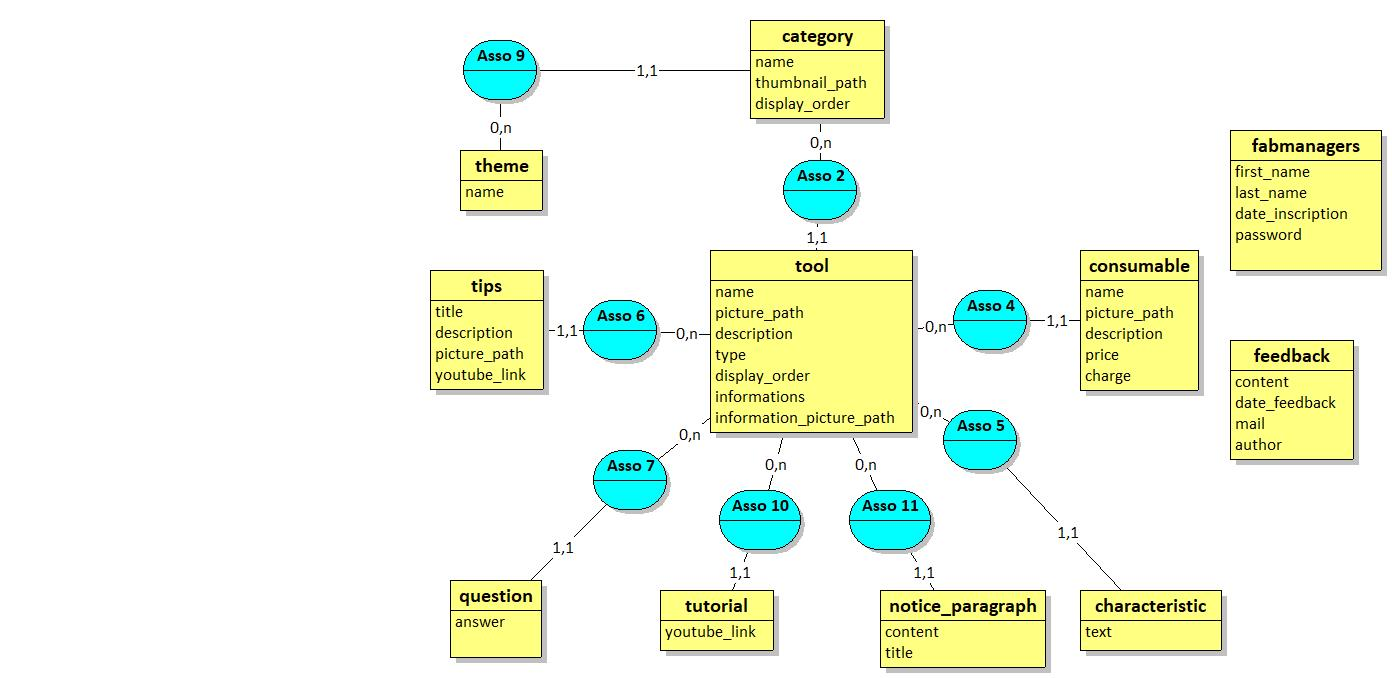
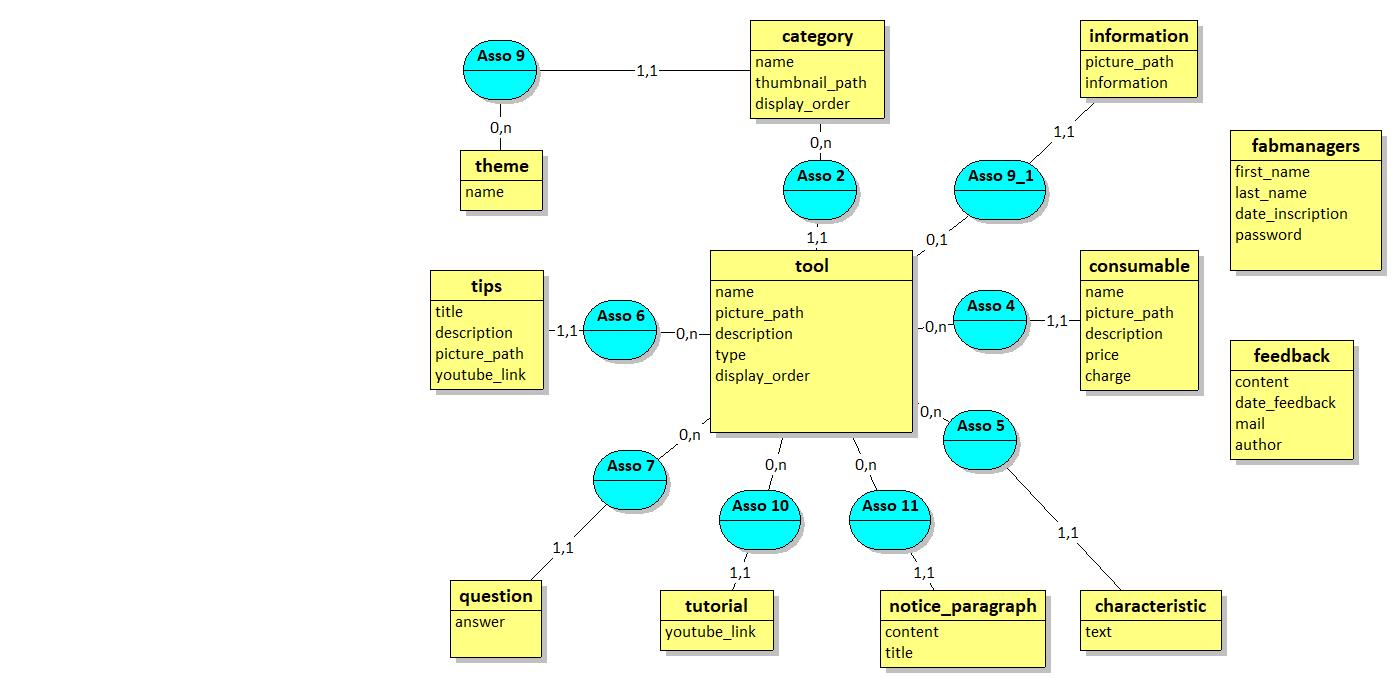
update: information entity + documentation

diff --git a/src/Entity/Tool.php b/src/Entity/Tool.php
@@ -44,16 +44,6 @@ class Tool
     private $displayOrder;
 
     /**
-     * @ORM\Column(type="text", nullable=true)
-     */
-    private $informations;
-
-    /**
-     * @ORM\Column(type="string", length=255, nullable=true)
-     */
-    private $informationPicturePath;
-
-    /**
      * @ORM\ManyToOne(targetEntity="App\Entity\Category", inversedBy="tools")
      * @ORM\JoinColumn(nullable=false)
      */
@@ -88,6 +78,11 @@ class Tool
      * @ORM\OneToMany(targetEntity="App\Entity\Consumable", mappedBy="tool", orphanRemoval=true)
      */
     private $consumable;
+
+    /**
+     * @ORM\OneToOne(targetEntity="App\Entity\Information", mappedBy="tool", cascade={"persist", "remove"})
+     */
+    private $information;
 
     public function __construct()
     {
@@ -161,30 +156,6 @@ class Tool
     public function setDisplayOrder(int $displayOrder): self
     {
         $this->displayOrder = $displayOrder;
-
-        return $this;
-    }
-
-    public function getInformations(): ?string
-    {
-        return $this->informations;
-    }
-
-    public function setInformations(?string $informations): self
-    {
-        $this->informations = $informations;
-
-        return $this;
-    }
-
-    public function getInformationPicturePath(): ?string
-    {
-        return $this->informationPicturePath;
-    }
-
-    public function setInformationPicturePath(?string $informationPicturePath): self
-    {
-        $this->informationPicturePath = $informationPicturePath;
 
         return $this;
     }
@@ -382,6 +353,23 @@ class Tool
             if ($consumable->getTool() === $this) {
                 $consumable->setTool(null);
             }
+        }
+
+        return $this;
+    }
+
+    public function getInformation(): ?Information
+    {
+        return $this->information;
+    }
+
+    public function setInformation(Information $information): self
+    {
+        $this->information = $information;
+
+        // set the owning side of the relation if necessary
+        if ($information->getTool() !== $this) {
+            $information->setTool($this);
         }
 
         return $this;

diff --git a/src/Migrations/Version20200427150207.php b/src/Migrations/Version20200427150207.php
@@ -1,0 +1,38 @@
+<?php
+
+declare(strict_types=1);
+
+namespace DoctrineMigrations;
+
+use Doctrine\DBAL\Schema\Schema;
+use Doctrine\Migrations\AbstractMigration;
+
+/**
+ * Auto-generated Migration: Please modify to your needs!
+ */
+final class Version20200427150207 extends AbstractMigration
+{
+    public function getDescription() : string
+    {
+        return '';
+    }
+
+    public function up(Schema $schema) : void
+    {
+        // this up() migration is auto-generated, please modify it to your needs
+        $this->abortIf($this->connection->getDatabasePlatform()->getName() !== 'mysql', 'Migration can only be executed safely on \'mysql\'.');
+
+        $this->addSql('CREATE TABLE information (id INT AUTO_INCREMENT NOT NULL, tool_id INT NOT NULL, picture_path VARCHAR(255) DEFAULT NULL, content LONGTEXT NOT NULL, UNIQUE INDEX UNIQ_297918838F7B22CC (tool_id), PRIMARY KEY(id)) DEFAULT CHARACTER SET utf8mb4 COLLATE `utf8mb4_unicode_ci` ENGINE = InnoDB');
+        $this->addSql('ALTER TABLE information ADD CONSTRAINT FK_297918838F7B22CC FOREIGN KEY (tool_id) REFERENCES tool (id)');
+        $this->addSql('ALTER TABLE tool DROP informations, DROP information_picture_path');
+    }
+
+    public function down(Schema $schema) : void
+    {
+        // this down() migration is auto-generated, please modify it to your needs
+        $this->abortIf($this->connection->getDatabasePlatform()->getName() !== 'mysql', 'Migration can only be executed safely on \'mysql\'.');
+
+        $this->addSql('DROP TABLE information');
+        $this->addSql('ALTER TABLE tool ADD informations LONGTEXT CHARACTER SET utf8mb4 DEFAULT NULL COLLATE `utf8mb4_unicode_ci`, ADD information_picture_path VARCHAR(255) CHARACTER SET utf8mb4 DEFAULT NULL COLLATE `utf8mb4_unicode_ci`');
+    }
+}

diff --git a/src/Repository/InformationRepository.php b/src/Repository/InformationRepository.php
@@ -1,0 +1,50 @@
+<?php
+
+namespace App\Repository;
+
+use App\Entity\Information;
+use Doctrine\Bundle\DoctrineBundle\Repository\ServiceEntityRepository;
+use Doctrine\Persistence\ManagerRegistry;
+
+/**
+ * @method Information|null find($id, $lockMode = null, $lockVersion = null)
+ * @method Information|null findOneBy(array $criteria, array $orderBy = null)
+ * @method Information[]    findAll()
+ * @method Information[]    findBy(array $criteria, array $orderBy = null, $limit = null, $offset = null)
+ */
+class InformationRepository extends ServiceEntityRepository
+{
+    public function __construct(ManagerRegistry $registry)
+    {
+        parent::__construct($registry, Information::class);
+    }
+
+    // /**
+    //  * @return Information[] Returns an array of Information objects
+    //  */
+    /*
+    public function findByExampleField($value)
+    {
+        return $this->createQueryBuilder('i')
+            ->andWhere('i.exampleField = :val')
+            ->setParameter('val', $value)
+            ->orderBy('i.id', 'ASC')
+            ->setMaxResults(10)
+            ->getQuery()
+            ->getResult()
+        ;
+    }
+    */
+
+    /*
+    public function findOneBySomeField($value): ?Information
+    {
+        return $this->createQueryBuilder('i')
+            ->andWhere('i.exampleField = :val')
+            ->setParameter('val', $value)
+            ->getQuery()
+            ->getOneOrNullResult()
+        ;
+    }
+    */
+}

diff --git a/src/Entity/Information.php b/src/Entity/Information.php
@@ -1,0 +1,75 @@
+<?php
+
+namespace App\Entity;
+
+use Doctrine\ORM\Mapping as ORM;
+
+/**
+ * @ORM\Entity(repositoryClass="App\Repository\InformationRepository")
+ */
+class Information
+{
+    /**
+     * @ORM\Id()
+     * @ORM\GeneratedValue()
+     * @ORM\Column(type="integer")
+     */
+    private $id;
+
+    /**
+     * @ORM\Column(type="string", length=255, nullable=true)
+     */
+    private $picturePath;
+
+    /**
+     * @ORM\OneToOne(targetEntity="App\Entity\Tool", inversedBy="information", cascade={"persist", "remove"})
+     * @ORM\JoinColumn(nullable=false)
+     */
+    private $tool;
+
+    /**
+     * @ORM\Column(type="text")
+     */
+    private $content;
+
+    public function getId(): ?int
+    {
+        return $this->id;
+    }
+
+    public function getPicturePath(): ?string
+    {
+        return $this->picturePath;
+    }
+
+    public function setPicturePath(?string $picturePath): self
+    {
+        $this->picturePath = $picturePath;
+
+        return $this;
+    }
+
+    public function getTool(): ?Tool
+    {
+        return $this->tool;
+    }
+
+    public function setTool(Tool $tool): self
+    {
+        $this->tool = $tool;
+
+        return $this;
+    }
+
+    public function getContent(): ?string
+    {
+        return $this->content;
+    }
+
+    public function setContent(string $content): self
+    {
+        $this->content = $content;
+
+        return $this;
+    }
+}
